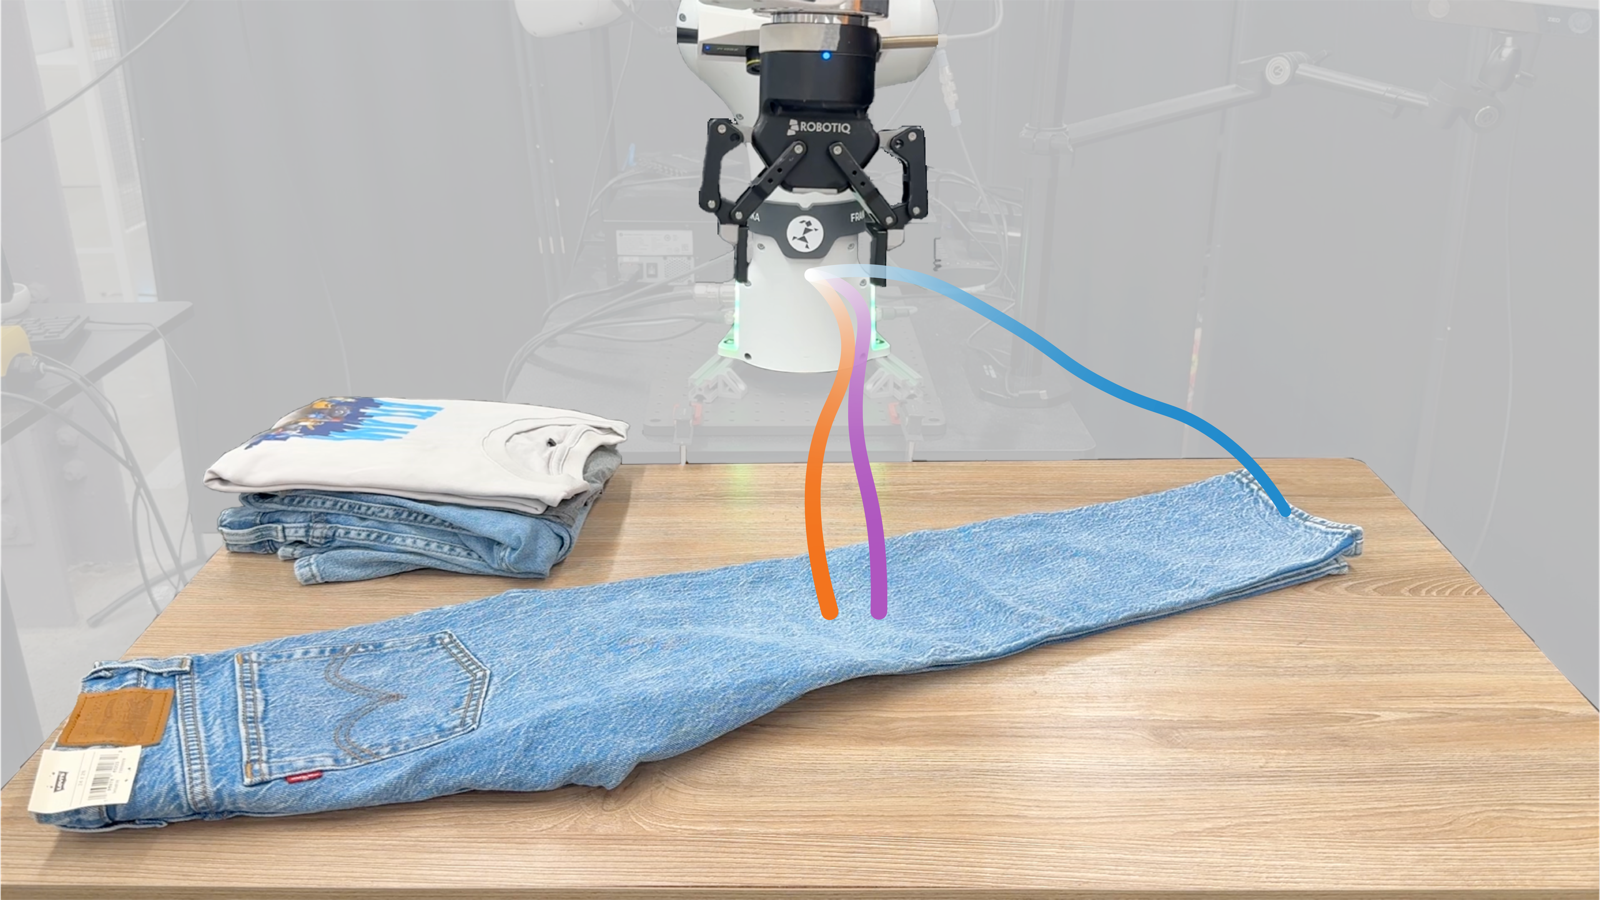
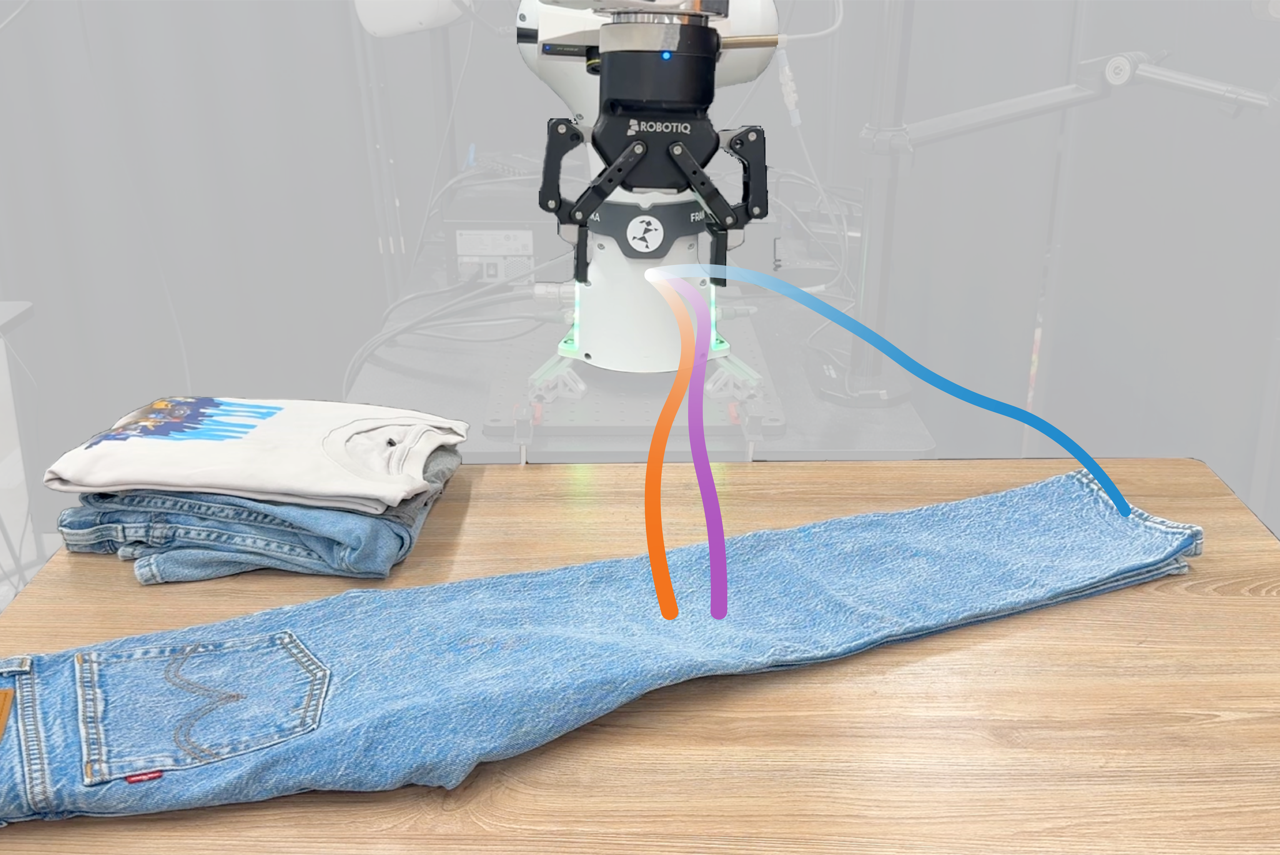
Crop teaser image (left 10%, right 10%, bottom 5% → 1280×855); remap trajectory normalised coords; aspect-correct CP_BLUE for 20° pixel tangent

diff --git a/static/modules/method_new.html b/static/modules/method_new.html
@@ -197,18 +197,17 @@
        Anchor points in NORMALISED image coordinates [0,1]. The image
        gets responsively sized via CSS; the canvas tracks it via the
        same mapping. Edit any of these to retune. */
-    var T_START      = { x: 0.575, y: 0.230 };
-    var T_END_PURPLE = { x: 0.580, y: 0.640 };
-    var T_END_BLUE   = { x: 0.715, y: 0.510 };
-    var T_CP_PURPLE  = { x: 0.585, y: 0.460 };
+    // Coords match the cropped image (1280×855: left 10%, right 10%, bottom 5%
+    // trimmed from the original 1600×900).
+    var T_START      = { x: 0.594, y: 0.242 };
+    var T_END_PURPLE = { x: 0.600, y: 0.674 };
+    var T_END_BLUE   = { x: 0.769, y: 0.537 };
+    var T_CP_PURPLE  = { x: 0.606, y: 0.484 };
     // CP at γ=1: placed so the bezier's tangent at T_END_BLUE makes a
-    // 20° angle with the rightward direction (going up-and-to-the-right
-    // in canvas coords). r controls the bow magnitude.
-    var T_R = 0.18;
-    var T_CP_BLUE = {
-      x: T_END_BLUE.x - T_R *  0.9397,    // cos(-20°)
-      y: T_END_BLUE.y - T_R * -0.3420     // sin(-20°)
-    };
+    // 20° angle with the rightward direction (going up-and-to-the-right)
+    // in PIXEL space. The aspect-correction divisor (W/H = 1280/855 = 1.497)
+    // accounts for the cropped image's non-square aspect.
+    var T_CP_BLUE = { x: 0.564, y: 0.648 };
 
     var teaserBg  = document.getElementById('teaserBg');
     var teaserCv  = document.getElementById('teaserOverlay');